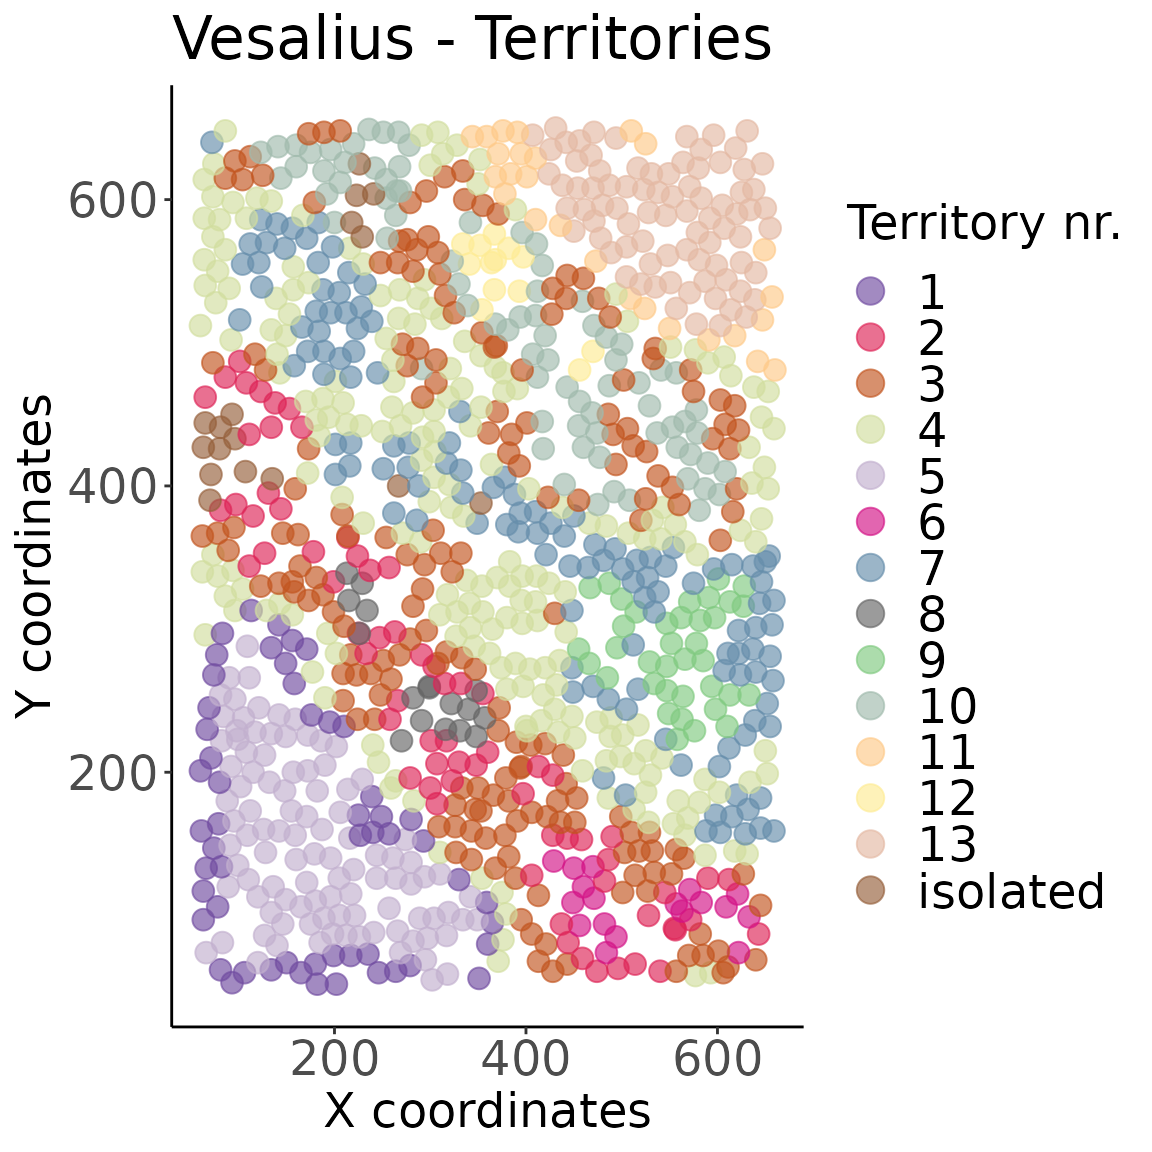
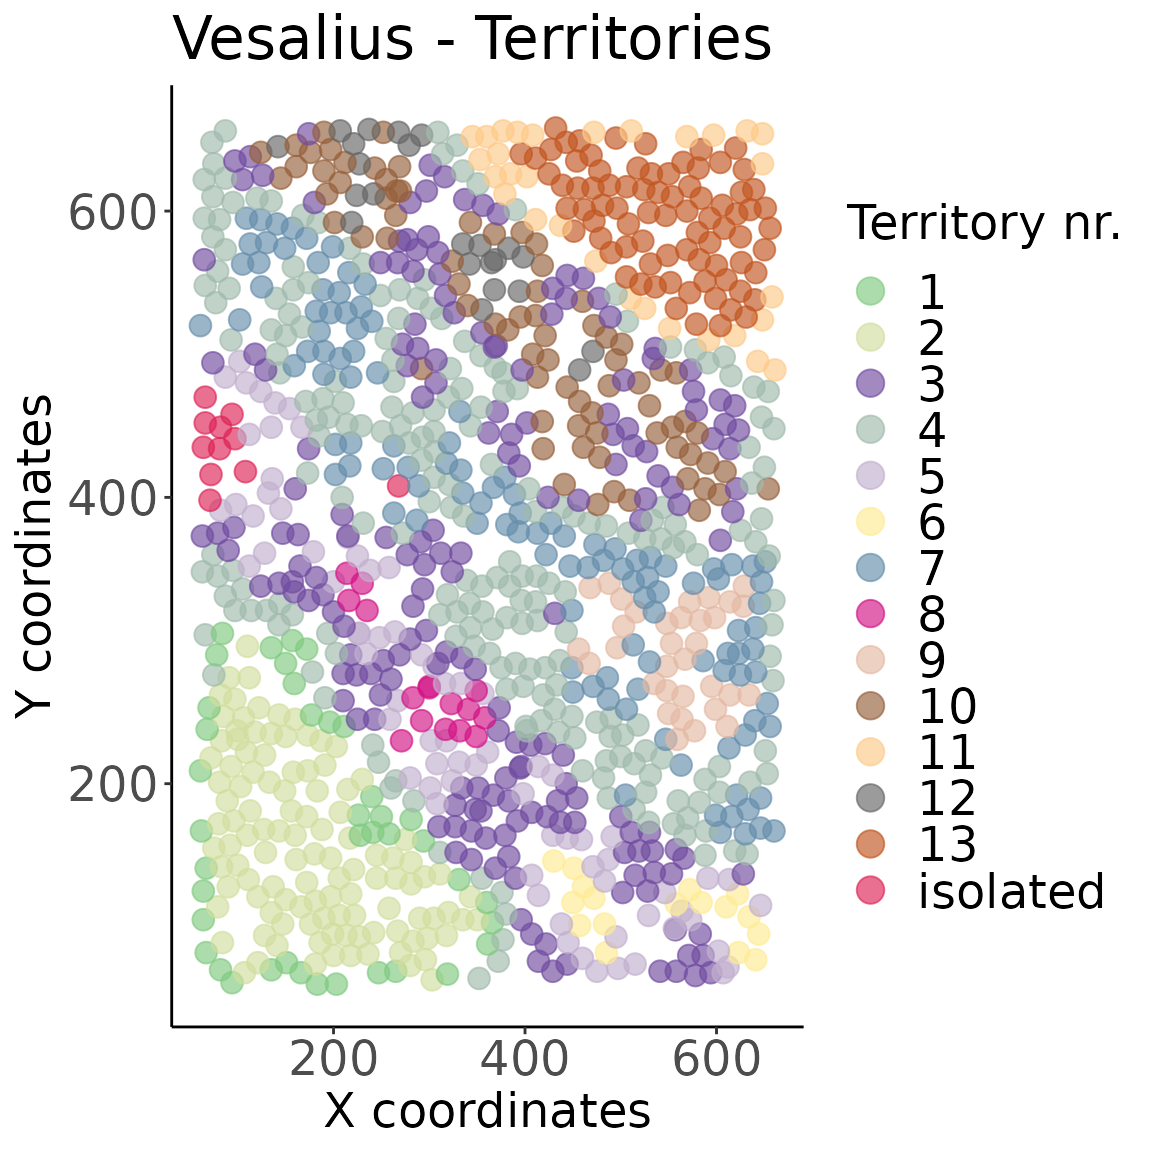
Built site for vesalius: 0.1.0@e63e438

diff --git a/articles/vesalius.html b/articles/vesalius.html
@@ -206,7 +206,8 @@
 <span class="co">## Guessing image dimensions from maximum coordinate values</span></code></pre>
 <pre><code><span class="co">## Warning in as.cimg.data.frame(imgCopy): Guessing image dimensions from maximum</span>
 <span class="co">## coordinate values</span></code></pre>
-<div class="sourceCode" id="cb17"><pre class="downlit sourceCode r">
+<pre><code><span class="co">## Warning: Quick-TRANSfer stage steps exceeded maximum (= 21307800)</span></code></pre>
+<div class="sourceCode" id="cb18"><pre class="downlit sourceCode r">
 <code class="sourceCode R"><span class="co"># Isolating territories from colour segments</span>
 <span class="va">vesalius</span> <span class="op">&lt;-</span> <span class="fu"><a href="../reference/isolateTerritories.array.html">isolateTerritories.array</a></span><span class="op">(</span><span class="va">vesalius</span>,
                                      captureRadius <span class="op">=</span> <span class="fl">0.1</span>,
@@ -217,7 +218,7 @@
 <h2 id="visualisation">Visualisation<a class="anchor" aria-label="anchor" href="#visualisation"></a>
 </h2>
 <p>Sixth, we can visualise the territories.</p>
-<div class="sourceCode" id="cb18"><pre class="downlit sourceCode r">
+<div class="sourceCode" id="cb19"><pre class="downlit sourceCode r">
 <code class="sourceCode R"><span class="co"># Let's have a look!</span>
 <span class="va">imgTerritory</span> <span class="op">&lt;-</span> <span class="fu"><a href="../reference/territoryPlot.html">territoryPlot</a></span><span class="op">(</span><span class="va">vesalius</span>, randomise <span class="op">=</span> <span class="cn">TRUE</span>,cex <span class="op">=</span><span class="fl">15</span> , cex.pt<span class="op">=</span><span class="fl">3.5</span><span class="op">)</span>
 <span class="fu"><a href="https://rdrr.io/r/base/print.html" class="external-link">print</a></span><span class="op">(</span><span class="va">imgTerritory</span><span class="op">)</span></code></pre></div>
@@ -227,26 +228,26 @@
 <h2 id="territory-extraction-and-markers">Territory extraction and markers<a class="anchor" aria-label="anchor" href="#territory-extraction-and-markers"></a>
 </h2>
 <p>Finally, we can extract territories to run a more in depth analysis. This returns a Seurat object with all selected territories. We can also find differential gene expression between territories.</p>
-<div class="sourceCode" id="cb19"><pre class="downlit sourceCode r">
+<div class="sourceCode" id="cb20"><pre class="downlit sourceCode r">
 <code class="sourceCode R"><span class="co"># extract terriotry from seurat object</span>
 <span class="va">ter</span> <span class="op">&lt;-</span> <span class="fu"><a href="../reference/extractTerritories.html">extractTerritories</a></span><span class="op">(</span><span class="va">vesalius</span>,<span class="va">counts</span>,seedID<span class="op">=</span> <span class="fl">1</span>,verbose <span class="op">=</span><span class="cn">F</span><span class="op">)</span></code></pre></div>
 <pre><code><span class="co">## Warning in as.cimg.data.frame(.): Guessing image dimensions from maximum</span>
 <span class="co">## coordinate values</span></code></pre>
-<div class="sourceCode" id="cb21"><pre class="downlit sourceCode r">
+<div class="sourceCode" id="cb22"><pre class="downlit sourceCode r">
 <code class="sourceCode R"><span class="co"># get all markers related to all territories</span>
 <span class="va">all</span> <span class="op">&lt;-</span> <span class="fu"><a href="../reference/extractAllMarkers.html">extractAllMarkers</a></span><span class="op">(</span><span class="va">vesalius</span>,<span class="va">counts</span>,verbose <span class="op">=</span><span class="cn">F</span><span class="op">)</span>
 
 
 <span class="co"># get markers associated with on or more territories</span>
 <span class="va">one</span> <span class="op">&lt;-</span> <span class="fu"><a href="../reference/extractMarkers.html">extractMarkers</a></span><span class="op">(</span><span class="va">vesalius</span>, <span class="va">counts</span>, seed <span class="op">=</span> <span class="fu"><a href="https://rdrr.io/r/base/c.html" class="external-link">c</a></span><span class="op">(</span><span class="fl">1</span><span class="op">)</span>,verbose <span class="op">=</span><span class="cn">F</span><span class="op">)</span></code></pre></div>
-<div class="sourceCode" id="cb22"><pre class="downlit sourceCode r">
+<div class="sourceCode" id="cb23"><pre class="downlit sourceCode r">
 <code class="sourceCode R"><span class="co"># comparing territories</span>
 <span class="va">two</span> <span class="op">&lt;-</span> <span class="fu"><a href="../reference/extractMarkers.html">extractMarkers</a></span><span class="op">(</span><span class="va">vesalius</span>, <span class="va">counts</span>, seed <span class="op">=</span> <span class="fu"><a href="https://rdrr.io/r/base/c.html" class="external-link">c</a></span><span class="op">(</span><span class="fl">1</span><span class="op">)</span>, query <span class="op">=</span> <span class="fu"><a href="https://rdrr.io/r/base/c.html" class="external-link">c</a></span><span class="op">(</span><span class="fl">2</span>,<span class="fl">3</span><span class="op">)</span>,verbose <span class="op">=</span><span class="cn">F</span><span class="op">)</span></code></pre></div>
 </div>
 <div class="section level2">
 <h2 id="session-info">Session Info<a class="anchor" aria-label="anchor" href="#session-info"></a>
 </h2>
-<div class="sourceCode" id="cb23"><pre class="downlit sourceCode r">
+<div class="sourceCode" id="cb24"><pre class="downlit sourceCode r">
 <code class="sourceCode R"><span class="fu"><a href="https://rdrr.io/r/utils/sessionInfo.html" class="external-link">sessionInfo</a></span><span class="op">(</span><span class="op">)</span></code></pre></div>
 <pre><code><span class="co">## R version 4.1.2 (2021-11-01)</span>
 <span class="co">## Platform: x86_64-pc-linux-gnu (64-bit)</span>
